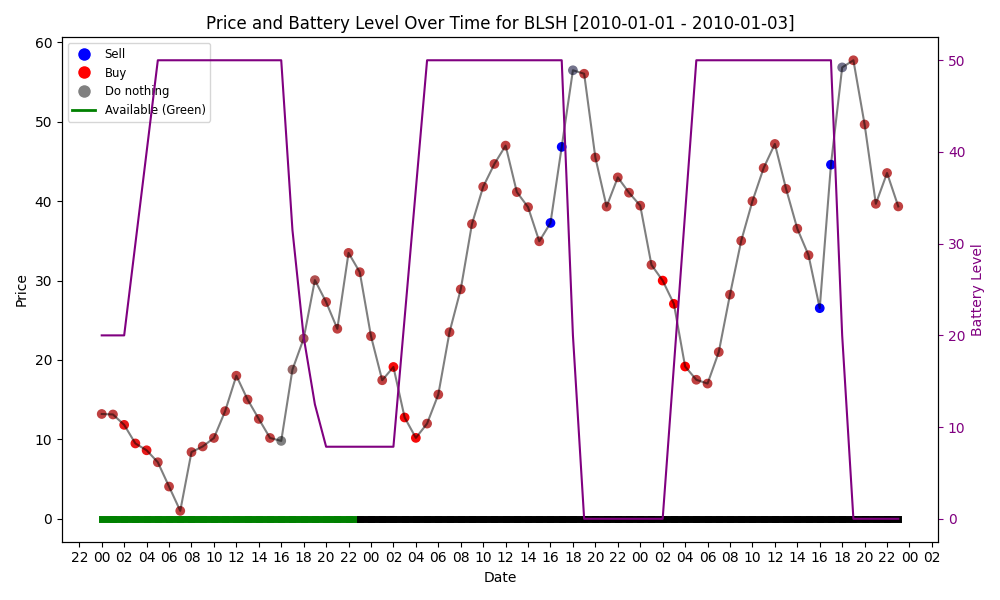
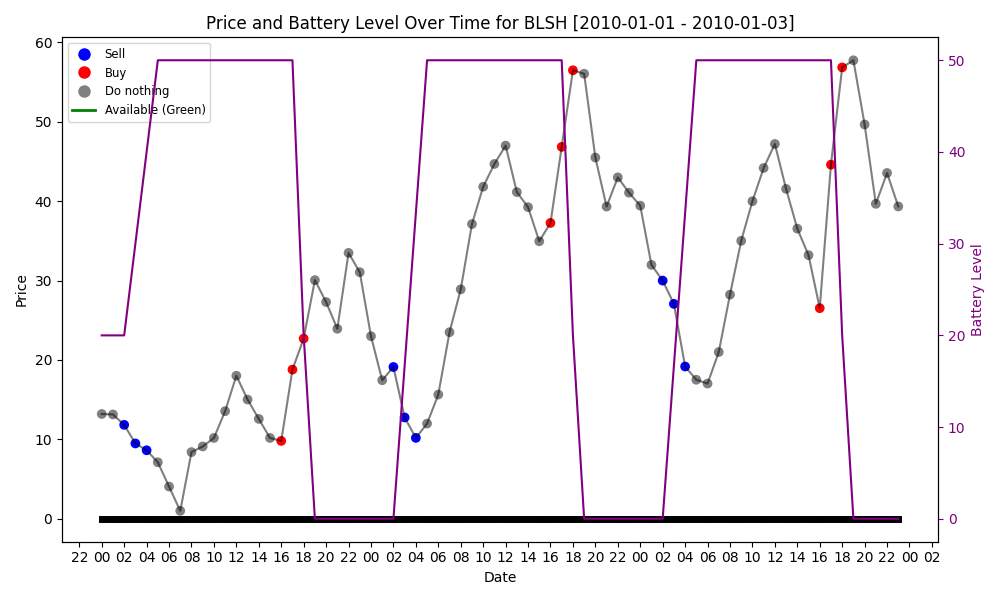
Fixed plot. Fixed some bugs with baseline.py.

diff --git a/data/data_vis.py b/data/data_vis.py
@@ -211,17 +211,17 @@ def candlestick_hourly(ohlc: pd.DataFrame, description: str, ema_spans: List[int
     mpf.plot(ohlc, type='candle', style='charles', title=f'Hourly Candlestick Chart {description}', \
              mav=tuple(ema_spans), savefig=f'images/candlestick_hourly_{description}.png')
 
-def action_to_color(action):
+def action_to_color(action)-> None:
     """
     Maps the action value to a color.
-    Positive actions are mapped to shades of blue, negative to orange, and zero to white.
+    Positive actions (buying) are mapped to red, negative (selling) to blue, and zero (doing nothing) to gray.
     """
-    if action > 0:
-        return (0, 0, min(1, action), 1)  # Shades of blue
-    elif action < 0:
-        return (min(1, -action), 0, 0, 1)  # Shades of red
+    if action < 0:
+        return (1, 0, 0, 1)  # Solid red for buying
+    elif action > 0:
+        return (0, 0, 1, 1)  # Solid blue for selling
     else:
-        return (0.5, 0.5, 0.5, 1)  # gray for zero
+        return (0.5, 0.5, 0.5, 1)  # Gray for doing nothing
 
 def visualize_bat(df: pd.DataFrame, algorithm: str) -> None:
     """
@@ -233,6 +233,7 @@ def visualize_bat(df: pd.DataFrame, algorithm: str) -> None:
     """
     # Convert defaultdict to DataFrame and limit the data to the first 48 rows (2 days)
     df = pd.DataFrame(df).head(72)
+    print(df['action'])
 
     # Ensure the 'date' column is in datetime format
     df['date'] = pd.to_datetime(df['date'])
@@ -249,7 +250,7 @@ def visualize_bat(df: pd.DataFrame, algorithm: str) -> None:
     ax1.plot(df['date'], df['price'], label='Price', color='black', alpha=0.5)
 
     # Plot colored dots for actions on top of the price line
-    colors = [cmap(norm(a)) for a in df['action']]
+    colors = [action_to_color(a) for a in df['action']]
     ax1.scatter(df['date'], df['price'], color=colors)
 
     # Plot a horizontal line for availability

diff --git a/baseline.py b/baseline.py
@@ -36,7 +36,7 @@ def validate_agent(env: Env, agent: Type[QLearningAgent or BuyLowSellHigh or EMA
             # Choose an action
             action = agent.choose_action(state) if rl else agent.choose_action(env.get_current_price(), state)
             # Get datetime
-            date = datetime.strptime(f"{env.data.iloc[_['step']]['date']} {state[1]-1:02d}:00:00", "%Y-%m-%d %H:%M:%S")
+            date = datetime.strptime(f"{env.data.iloc[_['step']]['date']} {int(state[1])-1:02d}:00:00", "%Y-%m-%d %H:%M:%S")
             # Log current state and action if last episode
             if episode == NUM_EPISODES - 1:
                 log_env['battery'].append(state[0])
@@ -109,9 +109,9 @@ def process_command(env: Env) -> Tuple[QLearningAgent or BuyLowSellHigh or EMA, 
     if sys.argv[1] == 'qlearning':
         return qlearning(), True, 'Q-learning'
     elif sys.argv[1] == 'blsh':
-        return buylowsellhigh(env), False
+        return buylowsellhigh(env), False, 'BLSH'
     elif sys.argv[1] == 'ema':
-        return ema(env), False
+        return ema(env), False, "EMA"
     else: 
         return "all", True
         
@@ -146,5 +146,4 @@ else:
 
 # Visualize the battery level
 visualize_bat(log_env, algorithm)
-
-    print(f"Average reward on validation set: {test_performance}")
+print(f"Average reward on validation set: {test_performance}")

diff --git a/ElectricCarEnv.py b/ElectricCarEnv.py
@@ -59,7 +59,7 @@ class ElectricCarEnv(gym.Env):
         
         # From 8AM to 6PM, unavailable cars can't be charged
         if not (8 <= self.time_of_day <= 18 and not self.car_available):
-            energy_change = (action / self.efficiency if action > 0 else action)
+            energy_change = -(action / self.efficiency if action > 0 else action)
             # Update the battery level based on the action and efficiency
             self.battery_level = min(max(self.battery_level + energy_change, 0), self.max_battery)
 
